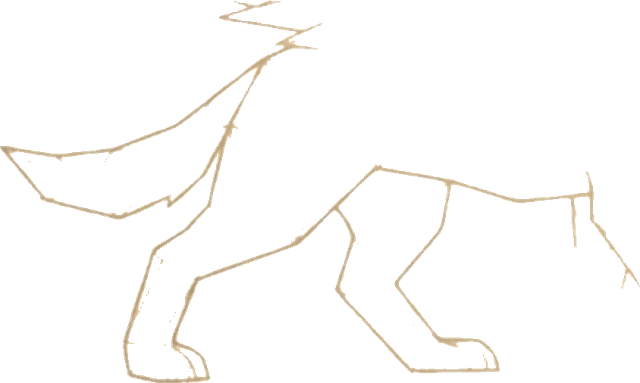
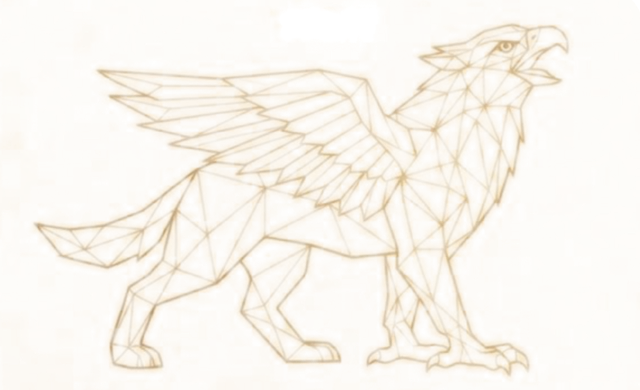
Fix sigil outlines: show the complete animal (colour-keyed extraction)
The wireframe outlines were extracted by largest-connected-component, which
dropped disconnected gold lines on the wolf/griffin (headless/half-drawn).
Re-extract outlines by R-B gold gap with a soft alpha ramp (keeps every line,
smooth & continuous, complete animal at 0% fill). Update sigil aspect ratios;
bump sw cache to mgt-v4 so installed PWAs refetch the images.

diff --git a/index.html b/index.html
@@ -682,7 +682,7 @@ function renderHome(){
   const weekCount=wkSessions.length, monthCount=sessionsSince(ms).length;
   const runWkDone=runsSince(ws).length>0;
   const HOUSE={weights:'HOUSE AUGUSTUS',hiit:'PATH OF THE STAINED',crossfit:'HOUSE BARCA'};
-  const ANIM={weights:['lion','640/461'],hiit:['griffin','640/383'],crossfit:['wolf','640/457']};
+  const ANIM={weights:['lion','640/400'],hiit:['griffin','640/390'],crossfit:['wolf','640/392']};
   const SWAP_IC='<svg viewBox="0 0 24 24"><path d="M4 5v5h5M20 19v-5h-5"/><path d="M19.5 10A8 8 0 006 6.3M4.5 14A8 8 0 0018 17.7"/></svg>';
   const FREE_IC='<svg viewBox="0 0 24 24"><path d="M4 4l9 9M13 4L4 13"/><path d="M16.5 12.5l3.5 3.5-1 3-3-1-.8-.8z"/></svg>';
   let top;

diff --git a/sw.js b/sw.js
@@ -1,4 +1,4 @@
-const CACHE = 'mgt-v3';
+const CACHE = 'mgt-v4';
 const ASSETS = ['./', './index.html', './manifest.json', './icon.svg', './icon-maskable.svg',
   './assets/lion-outline.png','./assets/lion-fill.png','./assets/wolf-outline.png','./assets/wolf-fill.png','./assets/griffin-outline.png','./assets/griffin-fill.png'];
 
